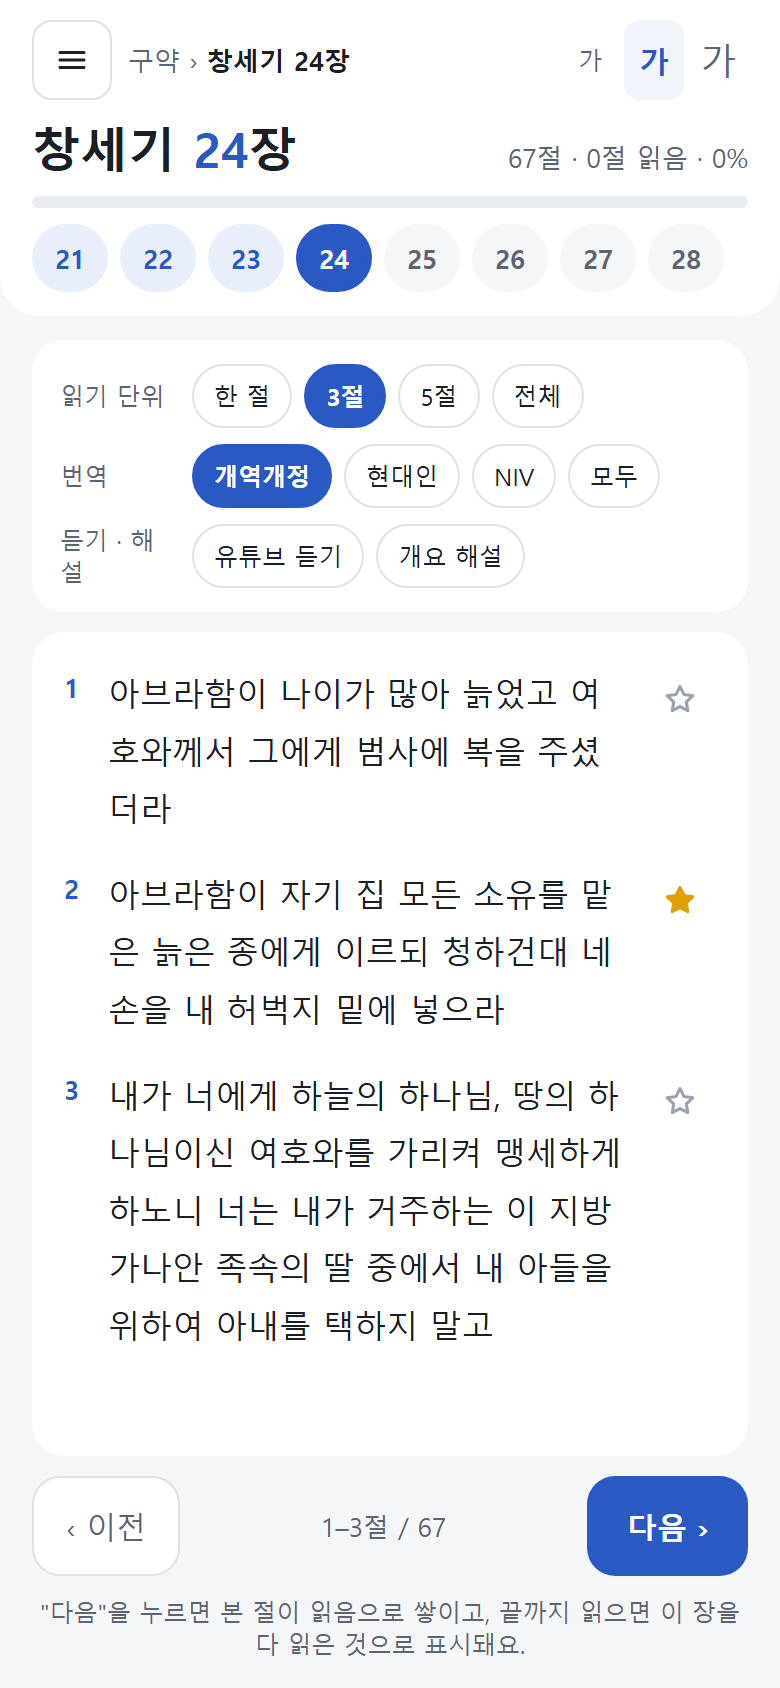
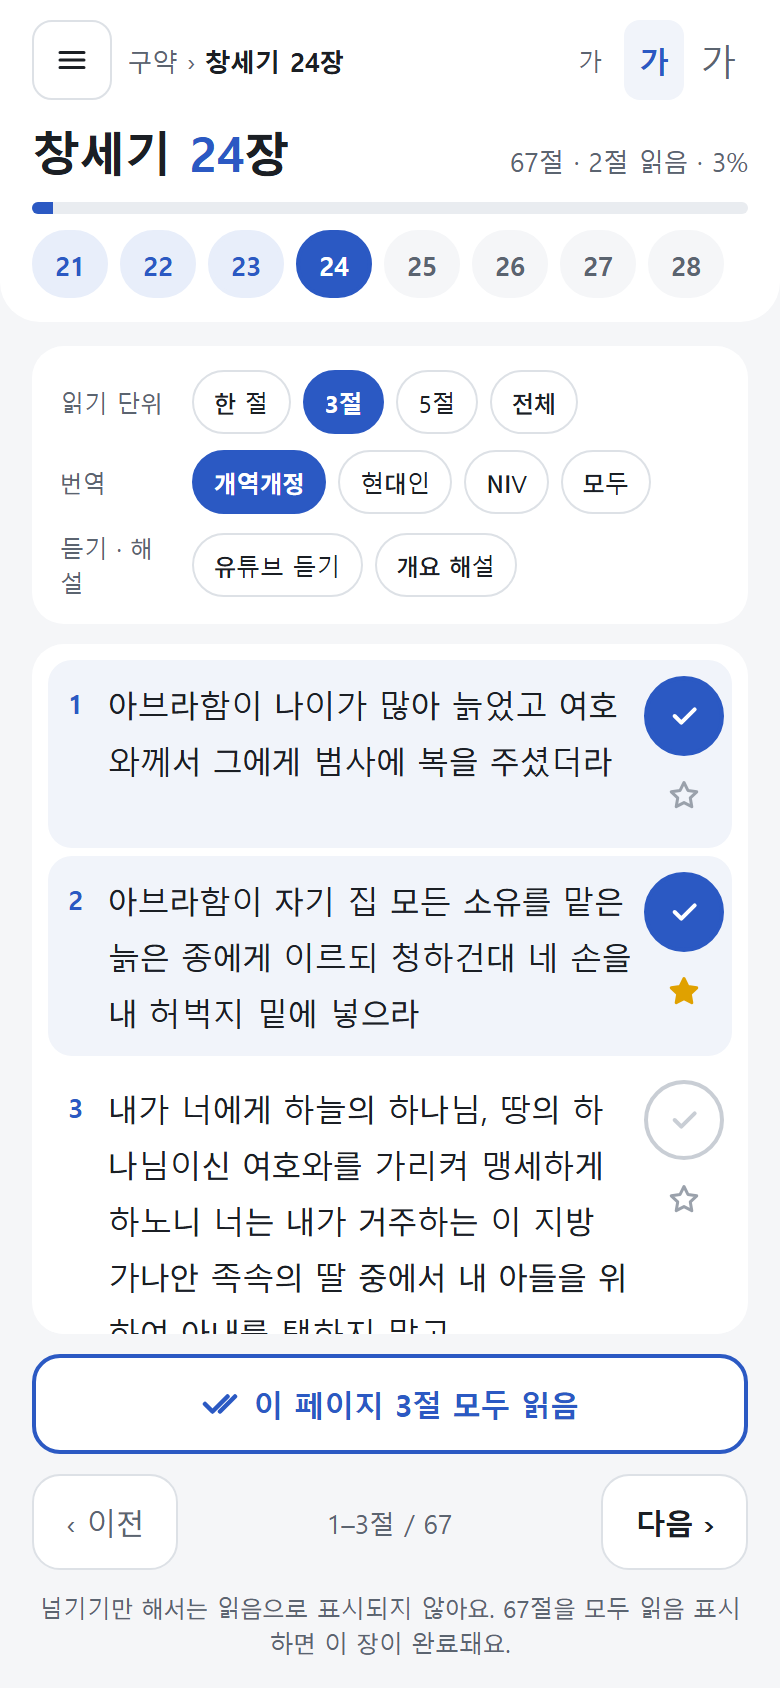
설계: ADR 0042 통독 본문은 절마다 읽음 표시
- 절별 읽음 켜기 · 끄기, 이 페이지 모두 읽음, 넘기기만으로는 표시 안 함
- 보던 위치는 읽음과 따로 기억, 회차별 절 읽음 표(RoundVerseRead)
- R-160 ~ R-162, 논리 · 물리 설계, API 반영, 본문 읽기 시안 원본 갱신

diff --git a/docs/design/시안/원본/ReadingChapter.dc.html b/docs/design/시안/원본/ReadingChapter.dc.html
@@ -32,9 +32,9 @@ button{font-family:inherit}
     </div>
     <div style="display: flex; justify-content: space-between; align-items: baseline">
       <span style="font-size: 24px; font-weight: 700">창세기 <span style="color: {{accent}}">24</span>장</span>
-      <span style="font-size: 13px; color: #5B6470">67절 · 0절 읽음 · 0%</span>
+      <span style="font-size: 13px; color: #5B6470">67절 · {{readCount}}절 읽음 · {{readPct}}</span>
     </div>
-    <div style="height: 6px; border-radius: 3px; background: #E9ECF0"></div>
+    <div style="height: 6px; border-radius: 3px; background: #E9ECF0; overflow: hidden"><div style="height: 6px; width: {{readPct}}; background: {{accent}}"></div></div>
     <div style="display: flex; gap: 6px; overflow: hidden">
       <sc-for list="{{pills}}" as="p" hint-placeholder-count="8">
         <a href="ReadingChapter.dc.html" style="flex: none; width: 38px; height: 34px; border-radius: 17px; background: {{p.bg}}; color: {{p.color}}; border: 2px solid {{p.ring}}; box-sizing: border-box; display: flex; align-items: center; justify-content: center; font-size: 13px; font-weight: 700">{{p.no}}</a>
@@ -46,7 +46,7 @@ button{font-family:inherit}
     <section style="background: #FFFFFF; border-radius: 16px; padding: 12px 14px; display: flex; flex-direction: column; gap: 8px">
       <sc-for list="{{groups}}" as="g" hint-placeholder-count="3">
         <div style="display: flex; align-items: center; gap: 8px">
-          <span style="width: 58px; flex: none; font-size: 12px; color: #5B6470">{{g.label}}</span>
+          <span style="width: 64px; flex: none; font-size: 12px; color: #5B6470; white-space: nowrap">{{g.label}}</span>
           <div style="display: flex; gap: 6px; flex-wrap: wrap">
             <sc-for list="{{g.chips}}" as="c" hint-placeholder-count="4">
               <button aria-pressed="{{c.on}}" style="min-height: 32px; padding: 0 10px; border-radius: 16px; border: 1px solid {{c.border}}; background: {{c.bg}}; color: {{c.color}}; font-size: 12px; font-weight: {{c.weight}}">{{c.name}}</button>
@@ -56,47 +56,81 @@ button{font-family:inherit}
       </sc-for>
     </section>
 
-    <section style="flex: 1; background: #FFFFFF; border-radius: 16px; padding: 16px; display: flex; flex-direction: column; gap: 14px; overflow: hidden">
+    <section style="flex: 1; background: #FFFFFF; border-radius: 16px; padding: 8px; display: flex; flex-direction: column; gap: 4px; overflow-y: auto">
       <sc-for list="{{verses}}" as="v" hint-placeholder-count="3">
-        <div style="display: flex; gap: 8px; align-items: flex-start">
-          <span style="font-size: 13px; font-weight: 700; color: {{accent}}; padding-top: 3px; min-width: 14px">{{v.no}}</span>
-          <p style="flex: 1; margin: 0; font-size: 16px; line-height: 1.8">{{v.text}}</p>
-          <button aria-label="북마크" aria-pressed="{{v.star}}" style="width: 36px; height: 36px; flex: none; border: 0; background: none; display: flex; align-items: center; justify-content: center">
-            <svg width="18" height="18" viewBox="0 0 24 24" fill="{{v.fill}}" stroke="{{v.stroke}}" stroke-width="2" stroke-linejoin="round" aria-hidden="true"><path d="M12 3l2.6 5.3 5.9.9-4.3 4.1 1 5.8L12 16.4 6.8 19.1l1-5.8L3.5 9.2l5.9-.9z"></path></svg>
-          </button>
+        <div style="display: flex; gap: 6px; align-items: flex-start; padding: 8px 4px 8px 10px; border-radius: 12px; background: {{v.rowBg}}">
+          <span style="font-size: 13px; font-weight: 700; color: {{accent}}; padding-top: 4px; min-width: 14px">{{v.no}}</span>
+          <p style="flex: 1; margin: 0; font-size: 16px; line-height: 1.75">{{v.text}}</p>
+          <div style="display: flex; flex-direction: column; gap: 2px; flex: none">
+            <button onClick="{{v.toggle}}" aria-label="{{v.readLabel}}" aria-pressed="{{v.read}}" style="width: 40px; height: 40px; border-radius: 20px; border: 2px solid {{v.checkRing}}; background: {{v.checkBg}}; box-sizing: border-box; display: flex; align-items: center; justify-content: center">
+              <svg width="16" height="16" viewBox="0 0 24 24" fill="none" stroke="{{v.checkStroke}}" stroke-width="3" stroke-linecap="round" stroke-linejoin="round" aria-hidden="true"><path d="M5 12l5 5L20 7"></path></svg>
+            </button>
+            <button aria-label="북마크" aria-pressed="{{v.star}}" style="width: 40px; height: 36px; border: 0; background: none; display: flex; align-items: center; justify-content: center">
+              <svg width="18" height="18" viewBox="0 0 24 24" fill="{{v.fill}}" stroke="{{v.stroke}}" stroke-width="2" stroke-linejoin="round" aria-hidden="true"><path d="M12 3l2.6 5.3 5.9.9-4.3 4.1 1 5.8L12 16.4 6.8 19.1l1-5.8L3.5 9.2l5.9-.9z"></path></svg>
+            </button>
+          </div>
         </div>
       </sc-for>
     </section>
 
+    <button onClick="{{markAll}}" style="min-height: 50px; border-radius: 14px; border: 2px solid {{accent}}; background: {{allBg}}; color: {{allColor}}; font-size: 15px; font-weight: 700; display: flex; align-items: center; justify-content: center; gap: 8px">
+      <svg width="18" height="18" viewBox="0 0 24 24" fill="none" stroke="{{allColor}}" stroke-width="3" stroke-linecap="round" stroke-linejoin="round" aria-hidden="true"><path d="M2 12l5 5L17 7M12 17l10-10"></path></svg>
+      {{allLabel}}
+    </button>
     <div style="display: flex; align-items: center; gap: 8px">
-      <button disabled style="min-height: 50px; padding: 0 16px; border-radius: 14px; border: 1px solid #DDE1E6; background: #FFFFFF; font-size: 15px; color: #5B6470">‹ 이전</button>
+      <button disabled style="min-height: 48px; padding: 0 16px; border-radius: 14px; border: 1px solid #DDE1E6; background: #FFFFFF; font-size: 15px; color: #5B6470">‹ 이전</button>
       <span style="flex: 1; text-align: center; font-size: 13px; color: #5B6470">1–3절 / 67</span>
-      <button style="min-height: 50px; padding: 0 20px; border-radius: 14px; border: 0; background: {{accent}}; color: #FFFFFF; font-size: 15px; font-weight: 700">다음 ›</button>
+      <button style="min-height: 48px; padding: 0 16px; border-radius: 14px; border: 1px solid #DDE1E6; background: #FFFFFF; font-size: 15px; font-weight: 700; color: #1B1F24">다음 ›</button>
     </div>
-    <span style="font-size: 12px; color: #5B6470; text-align: center">"다음"을 누르면 본 절이 읽음으로 쌓이고, 끝까지 읽으면 이 장을 다 읽은 것으로 표시돼요.</span>
+    <span style="font-size: 12px; color: #5B6470; text-align: center">넘기기만 해서는 읽음으로 표시되지 않아요. 67절을 모두 읽음 표시하면 이 장이 완료돼요.</span>
   </main>
 </div>
 </x-dc>
 <script type="text/x-dc" data-dc-script data-props='{"accent":{"editor":"color","default":"#2B59C3","options":["#2B59C3","#1F7A5C","#B2462E","#6A4BB5"],"section":"부서 대표 색"},"$preview":{"width":390,"height":844}}'>
 class Component extends DCLogic {
+  constructor(props) {
+    super(props);
+    this.state = { read: { 1: true, 2: true, 3: false } };
+  }
   renderVals() {
     const accent = this.props.accent ?? '#2B59C3';
+    const read = this.state.read;
     const pills = [21, 22, 23, 24, 25, 26, 27, 28].map(function (n) {
-      const read = n < 24, cur = n === 24;
-      return { no: n, bg: cur ? accent : (read ? '#E8EEFA' : '#F5F6F8'), color: cur ? '#FFFFFF' : (read ? accent : '#5B6470'), ring: cur ? accent : (read ? '#E8EEFA' : '#F5F6F8') };
+      const done = n < 24, cur = n === 24;
+      return { no: n, bg: cur ? accent : (done ? '#E8EEFA' : '#F5F6F8'), color: cur ? '#FFFFFF' : (done ? accent : '#5B6470'), ring: cur ? accent : (done ? '#E8EEFA' : '#F5F6F8') };
     });
     function chip(name, on) { return { name: name, on: on, bg: on ? accent : '#FFFFFF', color: on ? '#FFFFFF' : '#1B1F24', border: on ? accent : '#DDE1E6', weight: on ? 700 : 500 }; }
     const groups = [
       { label: '읽기 단위', chips: [chip('한 절', false), chip('3절', true), chip('5절', false), chip('전체', false)] },
       { label: '번역', chips: [chip('개역개정', true), chip('현대인', false), chip('NIV', false), chip('모두', false)] },
-      { label: '듣기 · 해설', chips: [chip('유튜브 듣기', false), chip('개요 해설', false)] }
+      { label: '듣기·해설', chips: [chip('유튜브 듣기', false), chip('개요 해설', false)] }
     ];
-    const verses = [
+    const self = this;
+    const raw = [
       { no: 1, text: '아브라함이 나이가 많아 늙었고 여호와께서 그에게 범사에 복을 주셨더라', star: false },
       { no: 2, text: '아브라함이 자기 집 모든 소유를 맡은 늙은 종에게 이르되 청하건대 네 손을 내 허벅지 밑에 넣으라', star: true },
       { no: 3, text: '내가 너에게 하늘의 하나님, 땅의 하나님이신 여호와를 가리켜 맹세하게 하노니 너는 내가 거주하는 이 지방 가나안 족속의 딸 중에서 내 아들을 위하여 아내를 택하지 말고', star: false }
-    ].map(function (v) { return Object.assign({}, v, { fill: v.star ? '#E0A100' : 'none', stroke: v.star ? '#E0A100' : '#9AA1AB' }); });
-    return { accent: accent, pills: pills, groups: groups, verses: verses };
+    ];
+    const verses = raw.map(function (v) {
+      const r = !!read[v.no];
+      return Object.assign({}, v, {
+        read: r,
+        readLabel: v.no + '절 ' + (r ? '읽음 해제' : '읽음 표시'),
+        rowBg: r ? '#F1F4FA' : '#FFFFFF',
+        checkBg: r ? accent : '#FFFFFF', checkRing: r ? accent : '#C9CED5', checkStroke: r ? '#FFFFFF' : '#C9CED5',
+        fill: v.star ? '#E0A100' : 'none', stroke: v.star ? '#E0A100' : '#9AA1AB',
+        toggle: function () { const next = Object.assign({}, self.state.read); next[v.no] = !r; self.setState({ read: next }); }
+      });
+    });
+    const count = raw.filter(function (v) { return read[v.no]; }).length;
+    const allDone = count === raw.length;
+    return {
+      accent: accent, pills: pills, groups: groups, verses: verses,
+      readCount: count, readPct: Math.round(count / 67 * 100) + '%',
+      allLabel: allDone ? '이 페이지 모두 읽었어요' : '이 페이지 ' + raw.length + '절 모두 읽음',
+      allBg: allDone ? accent : '#FFFFFF', allColor: allDone ? '#FFFFFF' : accent,
+      markAll: function () { const next = Object.assign({}, self.state.read); raw.forEach(function (v) { next[v.no] = true; }); self.setState({ read: next }); }
+    };
   }
 }
 </script>

diff --git a/docs/concept/03_업무규칙.md b/docs/concept/03_업무규칙.md
@@ -171,9 +171,9 @@
 | R-157 | 통독에는 점수가 없고, 성경말씀 점수와 무관하다. 참여자 현황의 진도율순 정렬은 허용한다(ADR 0041). |
 | R-158 | 통독 기록은 계정에 붙어 진급 · 영역 변경과 무관하게 이어진다. |
 | R-159 | 참여자 현황(이름 · 그룹 라벨/역할 · 진도율 · 회차 · 마지막 읽은 곳과 때 · 완독자 명예의 전당)은 기본으로 그 영역 소속원 모두에게 보인다. 영역이 "공개"를 끄면 관리자 · 교사만 본다. 다른 영역에는 보이지 않는다. |
-| R-160 | 본문 화면은 읽기 단위(한 절 · 3절 · 5절 · 전체)만큼 보여 주고, "다음"을 누르면 보여 준 마지막 절까지 읽음으로 쌓는다. |
-| R-161 | 장마다 어디까지 읽었는지(멈춘 절)를 회차별로 기억한다. "이어 읽기"는 가장 최근에 멈춘 곳, 없으면 마지막으로 완료한 장의 다음 장으로 간다. |
-| R-162 | 마지막 절까지 넘기면 그 장은 자동 완료되고(R-151), 회차의 1,189장이 모두 완료되면 회차 완료(R-153). |
+| R-160 | 본문 화면은 읽기 단위(한 절 · 3절 · 5절 · 전체)만큼 보여 준다. 절마다 읽음 표시를 켜고 끌 수 있고, "이 페이지 모두 읽음"은 보이는 절을 한 번에 표시한다. **"다음 · 이전"으로 넘기기만 해서는 읽음 표시하지 않는다**(ADR 0042). |
+| R-161 | 마지막으로 보던 위치(장 · 첫 절)를 회차별로 기억한다. "이어 읽기"는 그 위치, 없으면 마지막으로 완료한 장의 다음 장으로 간다. 보던 위치는 읽음 여부와 무관하다. |
+| R-162 | 그 장의 모든 절이 그 회차에서 읽음이면 장은 자동 완료되고(R-151), 회차의 1,189장이 모두 완료되면 회차 완료(R-153). |
 | R-163 | 성경 검색은 단어 · 구절로 본문을 찾는다. 결과는 번역을 고를 수 있다. |
 | R-164 | 인기 검색어는 영역별로 모은다. 검색어와 시각만 남기고 누가 찾았는지는 남기지 않는다. |
 | R-165 | 번역 "모두"는 개역개정 · 현대인의성경 · NIV 를 절마다 나란히 보여 준다. 없는 절은 그 번역 칸을 비운다. |

diff --git a/docs/design/0042-통독은-절마다-읽음-표시.md b/docs/design/0042-통독은-절마다-읽음-표시.md
@@ -1,0 +1,19 @@
+# 0042. 통독 본문은 절마다 읽음 표시 — 넘기기만으로는 표시하지 않는다
+
+- 상태: 확정 (2026-10-22, 사용자 요청)
+- 대체 대상: 0041 결정 1 의 "다음을 누르면 본 절까지 읽음으로 쌓는다"
+- 관련: R-160 ~ R-162, 시안 "통독 본문 읽기"
+
+## 결정
+1. 본문의 **절마다 읽음 표시**를 켜고 끌 수 있다.
+2. **"이 페이지 모두 읽음"** 버튼은 지금 화면에 보이는 절(읽기 단위만큼)을 한 번에 읽음으로 표시한다.
+3. **"다음 · 이전"으로 넘기는 것만으로는 읽음 표시를 하지 않는다.**
+4. 그 장의 모든 절이 읽음이면 장은 자동 완료된다. 책 목록에서 장을 눌러 바로 완료하는 길(0041)은 그대로 둔다.
+5. "이어 읽기"는 **마지막으로 보던 위치**(장 · 첫 절)로 간다. 읽음 여부와 따로 기억한다.
+
+## 결과
+- `ChapterProgress.ReadThroughVerse`(어디까지 넘겼나)를 없애고,
+  회차별 절 읽음 `RoundVerseRead`(계정 · 회차 · 책 · 장 · 절 · 시각)와 보던 위치 `ChapterProgress.LastViewedVerse` 로 나눈다.
+- 장 진도 = 그 회차에서 읽음 표시한 절 수 ÷ 그 장의 절 수.
+- API: 절 읽음 `PUT` · `DELETE /api/me/reading/verses/{book}/{chapter}/{verse}`, 페이지 모두 읽음 `PUT /api/me/reading/verses/{book}/{chapter}?from=&to=`,
+  보던 위치 `PUT /api/me/reading/position/{book}/{chapter}` `{ verse }`(읽음과 무관).

diff --git a/docs/design/API-화면-계약.md b/docs/design/API-화면-계약.md
@@ -208,7 +208,9 @@
 | `DELETE /api/me/reading/chapters/{book}/{chapter}` | 현재 회차에서 장 읽음 해제 |
 | `POST /api/me/reading/rounds` | 새 회차 시작(R-154). 현재 회차는 닫힘 |
 | `GET /api/me/reading/summary` | 진도율 · 완독 횟수 · 오늘 읽은 장 수 · 연속 읽은 날 |
-| `PUT /api/me/reading/progress/{book}/{chapter}` `{ throughVerse }` | "다음"으로 넘긴 절까지 읽음(R-160). 멱등(이미 더 읽었으면 그대로). 마지막 절이면 장 자동 완료(R-162). 응답 `{ chapterDone, progress, roundCompleted }` |
+| `PUT` · `DELETE /api/me/reading/verses/{book}/{chapter}/{verse}` | 절 읽음 켜기 · 끄기(R-160, 0042). 모든 절이 읽음이면 장 자동 완료(R-162). 응답 `{ chapterDone, progress, roundCompleted }` |
+| `PUT /api/me/reading/verses/{book}/{chapter}?from=&to=` | 이 페이지 모두 읽음(보이는 절 범위) |
+| `PUT /api/me/reading/position/{book}/{chapter}` `{ verse }` | 보던 위치 저장(이어 읽기용, 읽음과 무관 — R-161) |
 | `GET /api/{slug}/reading/search?q=&translation=` | 성경 검색(R-163). 검색어를 영역 SearchLog 에 남김(R-164) |
 | `GET /api/{slug}/reading/search/popular` | 영역 인기 검색어(최근 30일 상위 10) |
 

diff --git a/docs/design/논리-설계.md b/docs/design/논리-설계.md
@@ -349,9 +349,12 @@ erDiagram
 | 열 | 형 | 비고 |
 |---|---|---|
 | AccountId, RoundNo, BookId, Chapter | | **PK 네 열**. FK (AccountId, RoundNo) → ReadingRound |
-| ReadThroughVerse | 정수 | 어디까지 넘겼나(R-160). CK ≥ 1 |
-| UpdatedUtc | UTC | 이어 읽기 · 마지막 읽은 때(R-161) |
-- ReadThroughVerse 가 그 장의 VerseCount 에 닿으면 같은 트랜잭션에서 ChapterRead 를 만든다(R-162).
+| LastViewedVerse | 정수 | 마지막으로 보던 위치의 첫 절(R-161, 0042). CK ≥ 1. 읽음과 무관 |
+| UpdatedUtc | UTC | 이어 읽기 · 마지막으로 본 때(R-161) |
+
+**RoundVerseRead** — 계정 (0042): **PK (AccountId, RoundNo, BookId, Chapter, Verse)**, ReadUtc — FK (AccountId, RoundNo) → ReadingRound
+- 절 읽음 켜기 `PUT` · 끄기 `DELETE`, 페이지 모두 읽음은 범위 `PUT`(R-160). 넘기기만으로는 쓰지 않는다.
+- 그 장의 절이 VerseCount 만큼 모두 있으면 같은 트랜잭션에서 ChapterRead 를 만든다(R-162).
 
 **ChapterMedia** — 플랫폼: Id, BookId, Chapter, Kind(Listen · Overview), SortOrder, YoutubeVideoId, Title — UK (BookId, Chapter, Kind, SortOrder) (R-166)
 

diff --git a/docs/design/README.md b/docs/design/README.md
@@ -50,6 +50,7 @@
 | [0039](0039-한-플랫폼-두-프로그램.md) | — | 한 플랫폼, 두 프로그램(성경말씀 · 성경통독), 영역별 켜기, 영역 = 부서 또는 모임 |
 | [0040](0040-성경통독-규칙.md) | — | 성경통독: 자유 읽기, 장 체크, 회차, 진도율만 (0025 를 통독 안에서 1차로) |
 | [0041](0041-성경통독은-Bible2-구성을-따른다.md) | — | 통독은 Bible2 구성: 절 넘김 읽기 + 장 체크, 참여자 현황 공개(끌 수 있음), 검색 · 번역 모두 · 듣기 |
+| [0042](0042-통독은-절마다-읽음-표시.md) | — | 통독 본문은 절마다 읽음 · 페이지 모두 읽음, 넘기기만으로는 표시 안 함 (0041 결정 1 일부 대체) |
 
 ## 기타 설계 문서
 
